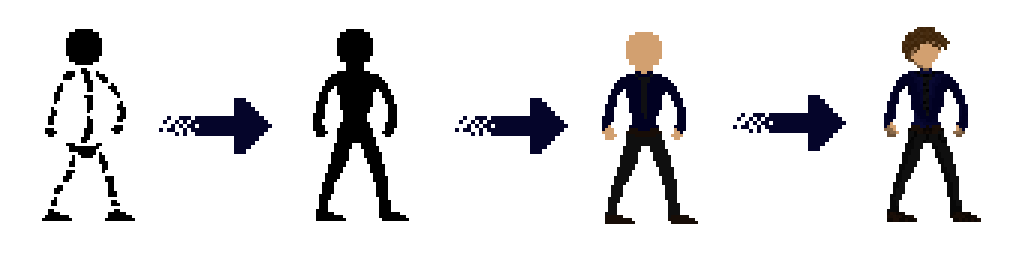
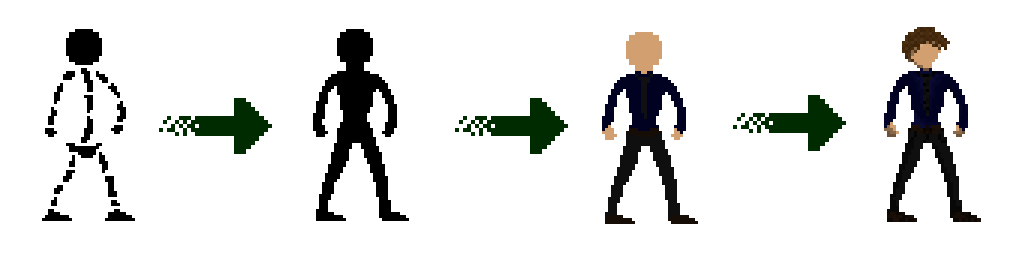
added about page
about page, changed theme to green, configured buttons to be the same, added team file

Changed region(s): [[0.4375, 0.375, 0.5625, 0.5938], [0.7188, 0.375, 0.8438, 0.5938], [0.1562, 0.375, 0.2812, 0.5938]]

diff --git a/terms.html b/terms.html
@@ -8,68 +8,76 @@
     <title>Document</title>
   </head>
   <body>
-    <h1>Terms and Conditions</h1>
-    <p>
-      <b>Introduction: </b>These terms and conditions (the "Terms") govern the
-      use of the Rovoid Game Studios website and any related services offered by
-      Rovoid Game Studios (collectively, the "Services"). By accessing or using
-      the Services, you agree to be bound by these Terms. If you do not agree to
-      these Terms, do not use the Services. <br /><br />
-      <b>Eligibility: </b>The Services are intended for use only by individuals
-      who are 13 years of age or older. By using the Services, you represent and
-      warrant that you are at least 13 years old and have the legal capacity to
-      enter into these Terms. <br /><br />
-      <b>Content: </b>All content and materials, including but not limited to
-      images, text, graphics, logos, icons, and software (collectively, the
-      "Content"), made available through the Services is protected by copyright,
-      trademark, and other intellectual property laws and is the property of
-      Rovoid Game Studios or its licensors. You may not use any Content for
-      commercial purposes or in any way that is not explicitly permitted by
-      these Terms or the relevant license terms accompanying such Content.
-      <br /><br />
-      <b>User Accounts: </b>In order to access certain features of the Services,
-      you may be required to create an account with Rovoid Game Studios. You are
-      responsible for maintaining the confidentiality of your account
-      credentials and for all activities that occur under your account.
-      <br /><br />
-      <b>Proprietary Rights: </b>The Services and all intellectual property
-      rights associated with them, including but not limited to patents,
-      trademarks, copyrights, and trade secrets, are the property of Rovoid Game
-      Studios. You do not have any right, title, or interest in the Services or
-      any associated intellectual property, except as expressly granted under
-      these Terms. <br /><br />
-      <b>Disclaimers: </b>The Services are provided "as is" and Rovoid Game
-      Studios makes no representations or warranties of any kind, express or
-      implied, as to the operation of the Services or the information, content,
-      materials, or products included on the Services. <br /><br />
-      <b>Limitation of Liability: </b>In no event shall Rovoid Game Studios be
-      liable for any damages, including but not limited to, direct, indirect,
-      special, incidental, or consequential damages, arising out of or in
-      connection with the use of the Services. <br /><br />
-      <b>Indemnification: </b>You agree to indemnify and hold harmless Rovoid
-      Game Studios, its affiliates, and their respective directors, officers,
-      employees, and agents from and against any and all claims, liabilities,
-      damages, losses, and expenses, including but not limited to reasonable
-      attorney's fees, arising out of or in any way connected with your use of
-      the Services. <br /><br />
-      <b>Termination: </b>Rovoid Game Studios reserves the right to terminate
-      your access to the Services at any time, without notice, for any reason,
-      including but not limited to breach of these Terms. <br /><br />
-      <b>Governing Law:</b> These Terms shall be governed by and construed in
-      accordance with the laws of the jurisdiction in which Rovoid Game Studios
-      is based, without giving effect to any principles of conflicts of law.
-      <br /><br />
-      <b>Changes to Terms: </b>Rovoid Game Studios may modify these Terms at any
-      time and will post the revised Terms on the Services. Your continued use
-      of the Services after the revised Terms are posted constitutes your
-      acceptance of the revised Terms. <br /><br />
-      <b> Entire Agreement: </b>These Terms, together with any additional terms
-      to which you agree when using certain elements of the Services, constitute
-      the entire agreement between you and Rovoid Game Studios with respect to
-      the use of the Services. <br />
-      <br />
-      These Terms and Conditions was last updated on <b>02/02/2023</b>.
-    </p>
-    <a class="newsButton" href="news.html">Back</a>
+    <div class="row">
+      <div style="background-color: rgb(224, 224, 224)" class="card">
+        <h1>Terms and Conditions</h1>
+        <p>
+          <b>Introduction: </b>These terms and conditions (the "Terms") govern
+          the use of the Rovoid Game Studios website and any related services
+          offered by Rovoid Game Studios (collectively, the "Services"). By
+          accessing or using the Services, you agree to be bound by these Terms.
+          If you do not agree to these Terms, do not use the Services.
+          <br /><br />
+          <b>Eligibility: </b>The Services are intended for use only by
+          individuals who are 13 years of age or older. By using the Services,
+          you represent and warrant that you are at least 13 years old and have
+          the legal capacity to enter into these Terms. <br /><br />
+          <b>Content: </b>All content and materials, including but not limited
+          to images, text, graphics, logos, icons, and software (collectively,
+          the "Content"), made available through the Services is protected by
+          copyright, trademark, and other intellectual property laws and is the
+          property of Rovoid Game Studios or its licensors. You may not use any
+          Content for commercial purposes or in any way that is not explicitly
+          permitted by these Terms or the relevant license terms accompanying
+          such Content. <br /><br />
+          <b>User Accounts: </b>In order to access certain features of the
+          Services, you may be required to create an account with Rovoid Game
+          Studios. You are responsible for maintaining the confidentiality of
+          your account credentials and for all activities that occur under your
+          account. <br /><br />
+          <b>Proprietary Rights: </b>The Services and all intellectual property
+          rights associated with them, including but not limited to patents,
+          trademarks, copyrights, and trade secrets, are the property of Rovoid
+          Game Studios. You do not have any right, title, or interest in the
+          Services or any associated intellectual property, except as expressly
+          granted under these Terms. <br /><br />
+          <b>Disclaimers: </b>The Services are provided "as is" and Rovoid Game
+          Studios makes no representations or warranties of any kind, express or
+          implied, as to the operation of the Services or the information,
+          content, materials, or products included on the Services. <br /><br />
+          <b>Limitation of Liability: </b>In no event shall Rovoid Game Studios
+          be liable for any damages, including but not limited to, direct,
+          indirect, special, incidental, or consequential damages, arising out
+          of or in connection with the use of the Services. <br /><br />
+          <b>Indemnification: </b>You agree to indemnify and hold harmless
+          Rovoid Game Studios, its affiliates, and their respective directors,
+          officers, employees, and agents from and against any and all claims,
+          liabilities, damages, losses, and expenses, including but not limited
+          to reasonable attorney's fees, arising out of or in any way connected
+          with your use of the Services. <br /><br />
+          <b>Termination: </b>Rovoid Game Studios reserves the right to
+          terminate your access to the Services at any time, without notice, for
+          any reason, including but not limited to breach of these Terms.
+          <br /><br />
+          <b>Governing Law:</b> These Terms shall be governed by and construed
+          in accordance with the laws of the jurisdiction in which Rovoid Game
+          Studios is based, without giving effect to any principles of conflicts
+          of law. <br /><br />
+          <b>Changes to Terms: </b>Rovoid Game Studios may modify these Terms at
+          any time and will post the revised Terms on the Services. Your
+          continued use of the Services after the revised Terms are posted
+          constitutes your acceptance of the revised Terms. <br /><br />
+          <b> Entire Agreement: </b>These Terms, together with any additional
+          terms to which you agree when using certain elements of the Services,
+          constitute the entire agreement between you and Rovoid Game Studios
+          with respect to the use of the Services. <br />
+          <br />
+          These Terms and Conditions was last updated on <b>02/02/2023</b>.
+          <br /><br />
+          <br />
+          <a class="smallButton" href="news.html">News Page</a>
+        </p>
+      </div>
+    </div>
   </body>
 </html>

diff --git a/policy.html b/policy.html
@@ -8,34 +8,41 @@
     <title>Terms & Conditions</title>
   </head>
   <body>
-    <div>
-      <h1>Rovoid Game Studios Privacy Policy</h1>
-      <p>
-        At <b>Rovoid Game Studios</b>, we are committed to protecting the
-        privacy of our users. This Privacy Policy outlines how we collect and
-        use the email addresses of our users and explains our commitment to
-        safeguarding their personal information. <br /><br />
-        Email Collection We may collect your email address when you sign up for
-        our newsletter, purchase a game, or participate in a promotional event.
-        We use this information to send you periodic updates and news about our
-        company, including new game releases, special offers, and events.
-        <br /><br />
-        Use of Email Addresses Your email address will be used solely for the
-        purpose of sending you our newsletter and other promotional materials.
-        We will not share, sell, or rent your email address to any third party.
-        Security of Personal Information We take the security of your personal
-        information seriously and have implemented measures to protect your
-        information from unauthorized access, use, or disclosure. However, no
-        method of transmitting or storing data is completely secure, and we
-        cannot guarantee the security of your personal information. <br /><br />
-        Changes to this Privacy Policy We reserve the right to modify this
-        Privacy Policy at any time. Any changes to our Privacy Policy will be
-        posted on this page. <br /><br />
-        Contact Us If you have any questions or concerns about our Privacy
-        Policy, please contact us at [insert contact information]. <br /><br />
-        This Privacy Policy was last updated on <b>02/02/2023</b>.
-      </p>
+    <div class="row">
+      <div style="background-color: rgb(226, 226, 226)" class="card">
+        <h1>Rovoid Game Studios Privacy Policy</h1>
+        <p>
+          At <b>Rovoid Game Studios</b>, we are committed to protecting the
+          privacy of our users. This Privacy Policy outlines how we collect and
+          use the email addresses of our users and explains our commitment to
+          safeguarding their personal information. <br /><br />
+          <b>Email Collection: </b>We may collect your email address when you
+          sign up for our newsletter, purchase a game, or participate in a
+          promotional event. We use this information to send you periodic
+          updates and news about our company, including new game releases,
+          special offers, and events. <br /><br />
+          <b>Use of Email Addresses:</b> Your email address will be used solely
+          for the purpose of sending you our newsletter and other promotional
+          materials. We will not share, sell, or rent your email address to any
+          third party. <br /><br />
+          <b> Security of Personal Information: </b>We take the security of your
+          personal information seriously and have implemented measures to
+          protect your information from unauthorized access, use, or disclosure.
+          However, no method of transmitting or storing data is completely
+          secure, and we cannot guarantee the security of your personal
+          information. <br /><br />
+          <b>Changes to this Privacy Policy: </b> We reserve the right to modify
+          this Privacy Policy at any time. Any changes to our Privacy Policy
+          will be posted on this page. <br /><br />
+          Contact Us If you have any questions or concerns about our Privacy
+          Policy, please contact us at [insert contact information].
+          <br /><br />
+          This Privacy Policy was last updated on <b>02/02/2023</b>. <br />
+          <br />
+          <br />
+          <a class="smallButton" href="news.html">News Page</a>
+        </p>
+      </div>
     </div>
-    <a class="newsButton" href="news.html">Back</a>
   </body>
 </html>

diff --git a/about.html b/about.html
@@ -1,0 +1,65 @@
+<!DOCTYPE html>
+<html lang="en">
+  <head>
+    <meta charset="UTF-8" />
+    <meta http-equiv="X-UA-Compatible" content="IE=edge" />
+    <meta name="viewport" content="width=device-width, initial-scale=1.0" />
+    <link rel="stylesheet" href="stylesNews.css" />
+    <title>Terms & Conditions</title>
+  </head>
+  <body>
+    <div class="row">
+      <div style="background-color: rgb(226, 226, 226)" class="card">
+        <h1>About Rovoid</h1>
+        <p>
+          <b>Rovoid Game Studios</b> is a small and upcoming video game company
+          that was founded in February 2023, with one person populating the
+          team. Rovoid is aspiring to make a significant impact in the gaming
+          industry. <br /><br />
+          The company's goal is to create unique and immersive games that will
+          captivate players and keep them coming back for more. At Rovoid, we
+          believe that video games are not just a form of entertainment but an
+          art form that has the power to bring people together, evoke emotions
+          and tell meaningful stories. This belief drives our team to constantly
+          push the boundaries of what is possible in gaming and to explore new
+          and innovative ways to engage with players. <br /><br />
+          We understand that the gaming industry is constantly evolving and that
+          players expect more from their gaming experiences. With this in mind,
+          we are constantly researching and staying up-to-date with the latest
+          advancements in gaming technology to ensure that our games are always
+          at the forefront of the industry. <br /><br />
+          We are passionate about what we do and we believe that this shows in
+          the quality of our work. Our games are not just a result of our
+          technical skills but a reflection of our love for the industry and the
+          art of game development. As a small and upcoming company, we
+          understand that we have a lot to prove to the gaming community.
+          However, with our passion, dedication and commitment to delivering the
+          best possible gaming experiences, we are confident that
+          <b> Rovoid Game Studios </b>will soon become a name that is synonymous
+          with quality and innovation in the gaming industry. <br /><br />Rovoid
+          Game Studios is the vision of a solo developer who is passionate about
+          creating innovative and engaging video games. With a strong background
+          in game development and computing, along with a deep understanding of
+          the industry, this developer is dedicated to delivering high-quality
+          gaming experiences to players. <br /><br />
+          Despite the challenges of working solo, this individual is driven by a
+          love for the industry and a desire to create something truly special.
+          Constantly pushing the limits of what can be achieved as a solo game
+          developer, researching and incorporating the latest advancements in
+          gaming technology to create games that are not only fun to play but
+          visually stunning as well. The result is a unique portfolio of games
+          that stand out in a crowded market and offer players something truly
+          special. <br /><br />
+          At Rovoid Game Studios, the focus is always on delivering the best
+          possible gaming experiences, taking pride in our work and striving to
+          make each game better than the last. With a commitment to excellence
+          and a passion for innovation, Rovoid Game Studios is dedicated in
+          making a lasting impact on the gaming industry.
+        </p>
+        <br />
+        <a class="smallButton" href="news.html">News Page</a> <br />
+        <br />
+      </div>
+    </div>
+  </body>
+</html>

diff --git a/stylesNews.css b/stylesNews.css
@@ -8,7 +8,7 @@ body {
     padding: 30px;
     font-size: 40px;
     text-align: center;
-    background: rgb(6, 6, 71);
+    background-color: rgb(4, 39, 8);
     color: white;
     font-family: 'Segoe UI', Tahoma, Geneva, Verdana, sans-serif;
     }
@@ -38,7 +38,7 @@ body {
   }
 
   .homeButton {
-    background-color: rgb(3, 3, 63);
+    background-color: rgb(10, 43, 16);
     color: white;
     
     position: fixed;
@@ -57,16 +57,35 @@ body {
     }
     
     .homeButton:hover {
-    background-color: rgb(25, 25, 117);
-    cursor: pointer;
-    box-shadow: 0px 6px 12px 0px rgba(0, 0, 0, 0.3);
+      background-color: rgb(25, 70, 31);
+      cursor: pointer;
+      color: white;
+      text-decoration: none;
+      box-shadow: 0px 6px 12px 0px rgba(0, 0, 0, 0.3);
     }
-  
-  .homeButton:hover {
-    background-color: rgb(25, 25, 117);
-    cursor: pointer;
-    box-shadow: 0px 6px 12px 0px rgba(0, 0, 0, 0.3);
-  }
+
+    .smallButton {
+      background-color: rgb(10, 43, 16);
+      color: white;
+      
+      padding: 14px 24px;
+      border-radius: 5px;
+      
+      font-size: 18px;
+      font-weight: bold;
+      text-decoration: none;
+      
+      transition: background-color 0.2s ease-in-out;
+      box-shadow: 0px 4px 8px 0px rgba(0, 0, 0, 0.2);
+      }
+
+    .smallButton:hover {
+      background-color: rgb(25, 70, 31);
+      cursor: pointer;
+      color: white;
+      text-decoration: none;
+      box-shadow: 0px 6px 12px 0px rgba(0, 0, 0, 0.3);
+    }
 
   .footer-basic {
     padding:40px 0;
@@ -128,4 +147,3 @@ body {
     margin-bottom:0;
   }
   
-  /* Credit to https://epicbootstrap.com/snippets/footer-basic */

diff --git a/stylesHome.css b/stylesHome.css
@@ -1,5 +1,5 @@
 .background {
-  background-image: url(/media/backgroundTemp.png);
+  background-image: url(/media/backgroundTemp2.png);
   background-attachment: fixed;
   height: 100vh;
   margin-left: -10px;
@@ -74,7 +74,7 @@ p {
 }
 
 .newsButton {
-  background-color: rgb(3, 3, 63);
+  background-color: rgb(10, 43, 16);
   color: white;
   padding: 14px 24px;
   text-decoration: none;
@@ -87,7 +87,7 @@ p {
 }
 
 .newsButton:hover {
-  background-color: rgb(25, 25, 117);
+  background-color: rgb(25, 70, 31);
   cursor: pointer;
   box-shadow: 0px 6px 12px 0px rgba(0, 0, 0, 0.3);
 }

diff --git a/news.html b/news.html
@@ -58,7 +58,7 @@
           ><a href="#"><i class="icon ion-social-facebook"></i></a>
         </div>
         <ul class="list-inline">
-          <li class="list-inline-item"><a href="#">About</a></li>
+          <li class="list-inline-item"><a href="about.html">About</a></li>
           <li class="list-inline-item">
             <a href="terms.html">Terms and Conditions</a>
           </li>

diff --git a/index.html b/index.html
@@ -8,7 +8,8 @@
   </head>
   <body>
     <div class="background"></div>
-    <h1>Welcome to<br />Dustlands</h1>
+    <h1 style="font-size: 70px">Welcome to</h1>
+    <h1 style="margin-top: 80px; font-size: 140px"><br />Dustlands</h1>
 
     <div class="box-container">
       <div class="box">
